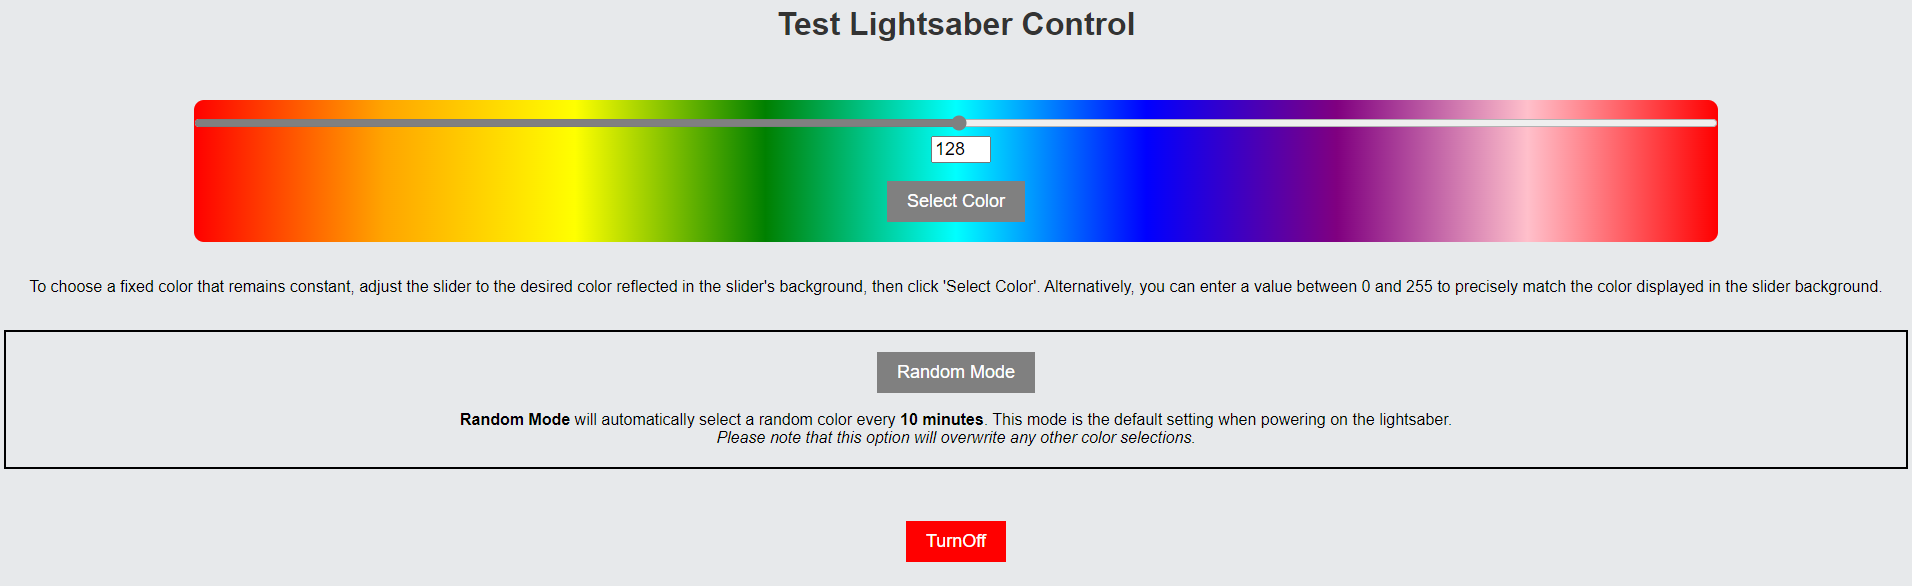
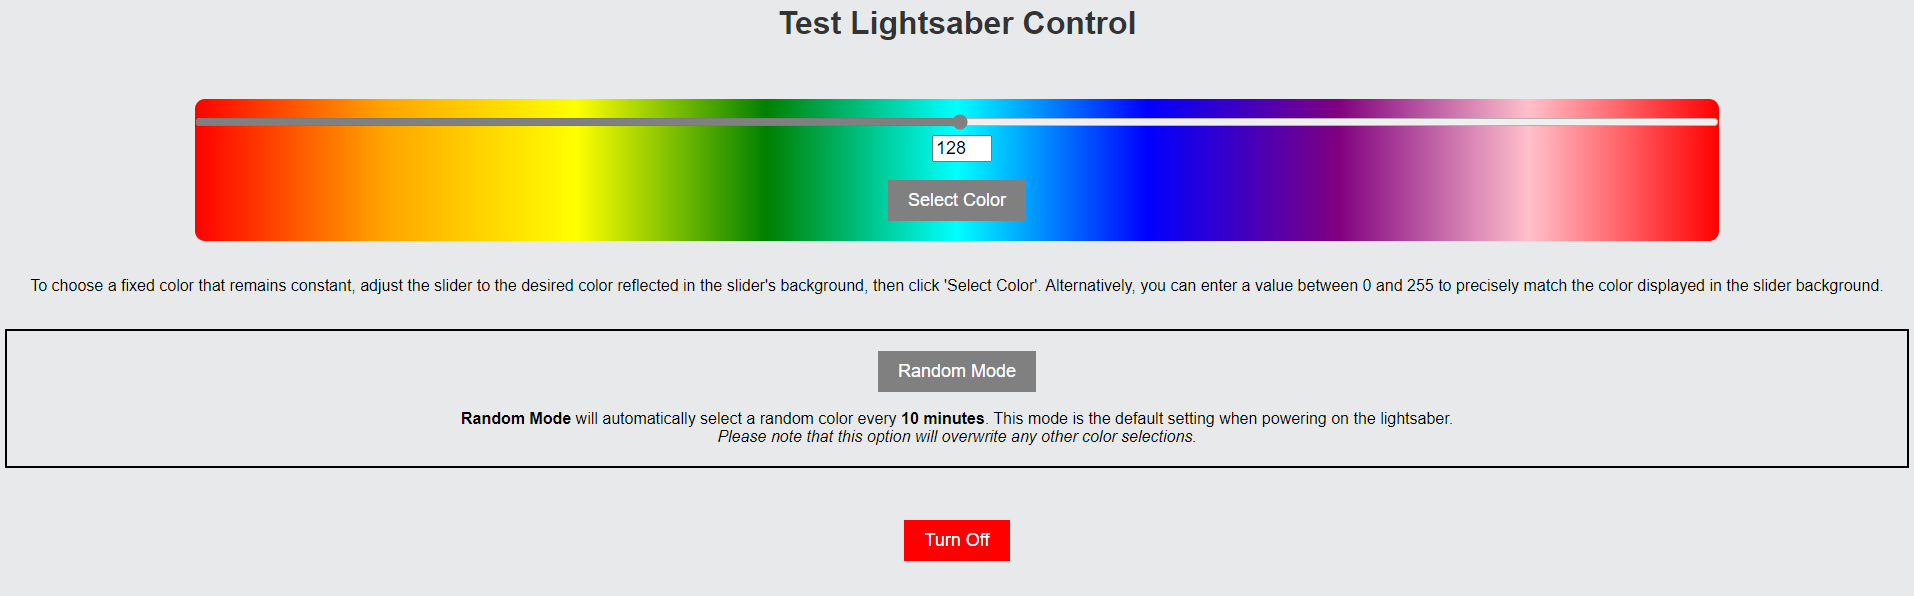
update README to match new web interface

diff --git a/README.md b/README.md
@@ -200,20 +200,19 @@ The program has two files. The first file is **arduino_secrets.h**. This file is
 
     git update-index --assume-unchanged .\arduino_controller\arduino_secrets.h 
 
-The next file where the brunt of everything happens is the **arduino_controller.ino** file. This file makes use of 4 libraries.
+The next file where the brunt of everything happens is the **arduino_controller.ino** file. This file makes use of 3 libraries.
 
 1. **SPI.h:** Enables Serial Peripheral Interface (SPI) communication. This communication is used in the WiFiNINA library and is essentially a dependency even though it is not invoked directly in the code.
 2. **WiFiNINA.h:** Provides WiFi functionality for connecting to networks and hosting the small server used to control the Arduino.
 3. **FastLED.h:** Controls the WS2812B LED strips gives the capability to change colors and turning LED strips on/off.
-4. **map:** The map is used to store static color options so that they can be easily added and removed as options in the dropdown menu.
 
 The program uses the FastLED library to control the WS2812B LED strips. The LED strips are connected to the Arduino Nano 33 IoT board, with one strip connected to the DATA_PIN and the other strip connected to DATA_PIN_CLONE. The program supports a single lightsaber with two identical LED strips.
 
-When powered on in the setup() section the program initializes the LED strips, sets the brightness and power limits, and starts the serial communication. However, the most critical component is setting the IP address of the Arduino, otherwise you won't know the IP of your Arduino. Even if you went through the trouble of figuring it out there is no guarantee your router will always assign the same IP. Once these steps are done, then the arduino attempts to connect to the configured WiFi network using the WiFiNINA module. Once connected, it starts a server on port 80 to host a small simple web interface accessible by placing the IP address you set into the URL of any browser on the same network. If connection is lost the code should attempt to reconnect to the WiFi. There does seem to be an intermittent issue of losing a connection that is the fault of either the WiFiNINA library or the WiFi chip of the Arduino. Luckily, this can often be resolved by programming the Arduino to automatically reconnect when the connection is lost, as demonstrated in this code.
+When powered on in the setup() section the program initializes the LED strips, sets the brightness and power limits, and starts the serial communication. However, the most critical component is setting the IP address of the Arduino. This makes sure you always have a fixed IP address for your Arduino, rather than allowing it to be assigned a random IP address. Even if you went through the trouble of figuring it out there is no guarantee your router will always assign the same IP. Once these steps are done, then the arduino attempts to connect to the configured WiFi network using the WiFiNINA module. Once connected, it starts a server on port 80 to host a small simple web interface accessible by placing the IP address you set into the URL of any browser on the same network. If connection is lost the code will attempt to reconnect to the WiFi. 
 
-The Arduino's hosted web interface allows users to control the lightsaber (ie. change color, toggle off, and random color mode every x minutes). When a client connects to the server, the program checks for incoming data. If there is data available, it reads the data and processes the commands. The program interprets the received commands and performs the corresponding actions to control the lightsaber's state and color. This is done through the use of simple GET requests that are submitted through a form from the client.
+The Arduino's hosted web interface allows users to control the lightsaber (ie. change color, turn the lightsaber LEDs off, and random color mode that changes the color every x minutes). When a client connects to the server, the program checks for incoming data. If there is data available, it reads the data and processes the commands. The program interprets the received commands and performs the corresponding actions to control the lightsaber's state and color. This is done through the use of simple GET requests that are submitted through a form from the client.
 
-The web interface displays a selection of colors and an option to turn off the lightsaber and can be easily customized. When a user selects a color or the turn off option and submits the form, the program updates the LED strips accordingly with an appropriate lightsaber styled power on/off animation. Another option, "Random," can periodically choose a new color every x minutes, but this mode can be interrupted by selecting a new option from the dropdown.
+The web interface displays a slider whose background color gradient corresponding to the available color options. Also, a "Random Mode" button can be selected that will randomize the color of the lightsaber every x amount of minutes. Additionally, a "Turn Off" button can be used to turn the LED lights off. When a user selects an option and submits the form, the program updates the LED strips accordingly with an appropriate lightsaber styled power on/off animation.
 
 <br/>
 
@@ -224,7 +223,7 @@ The web interface displays a selection of colors and an option to turn off the l
     - Also consider customizing the webpage title and the time interval for color changes in "Random" mode.
 3. Modify the arduino_secrets.h file to include your network's SSID and password for WiFi connection.
 4. Upload the code to the Arduino Nano 33 IoT board.
-5. Navigate to web interface by placing the IP address you set for the arduino in the URL location of a browser. Use the web interface to control your lightsabers from the dropdown menu like in Fig.8 below.
+5. Navigate to web interface by placing the IP address you set for the arduino in the URL location of a browser. Use the web interface to control your lightsaber using the interface seen in Fig.8 below.
 
 <br/>
 
@@ -259,7 +258,7 @@ The web interface displays a selection of colors and an option to turn off the l
 **To Do:**
 
 - TODO Add Holiday Based effects
-- TODO Add a color palette selector, instead of a dropdown menu
+- TODO Beautify the web interface
 
 <br/>
 
